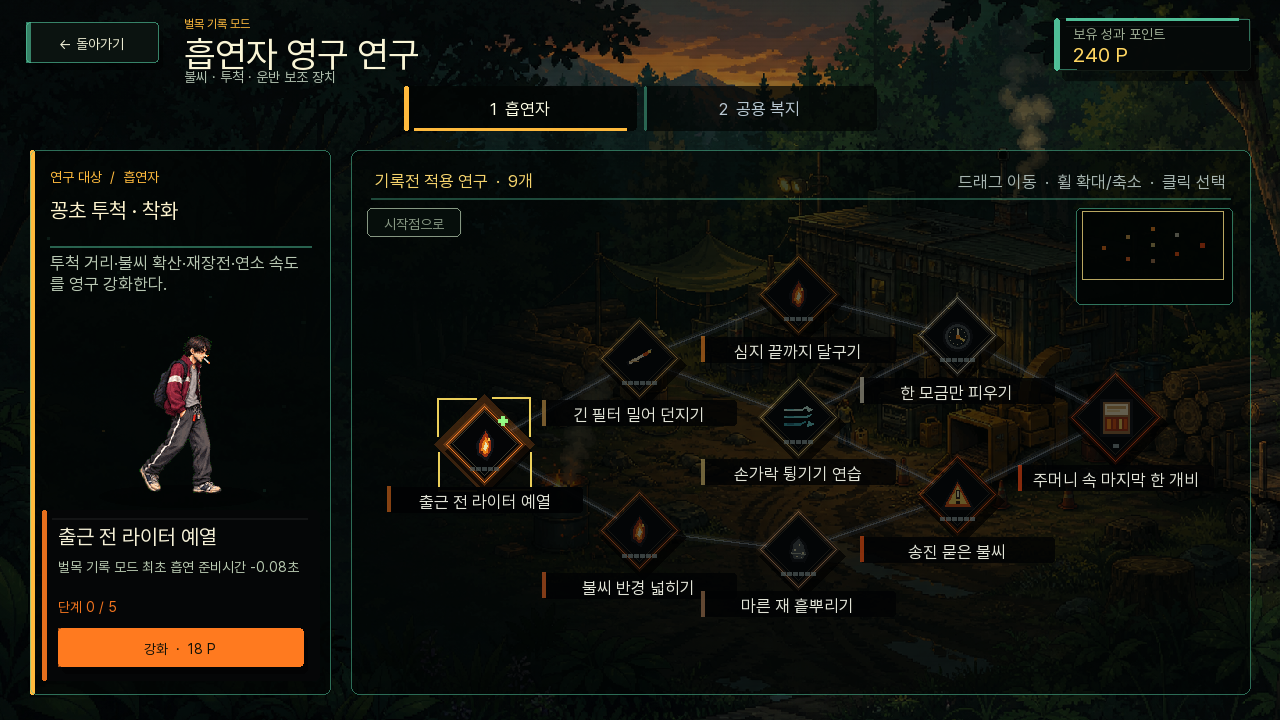
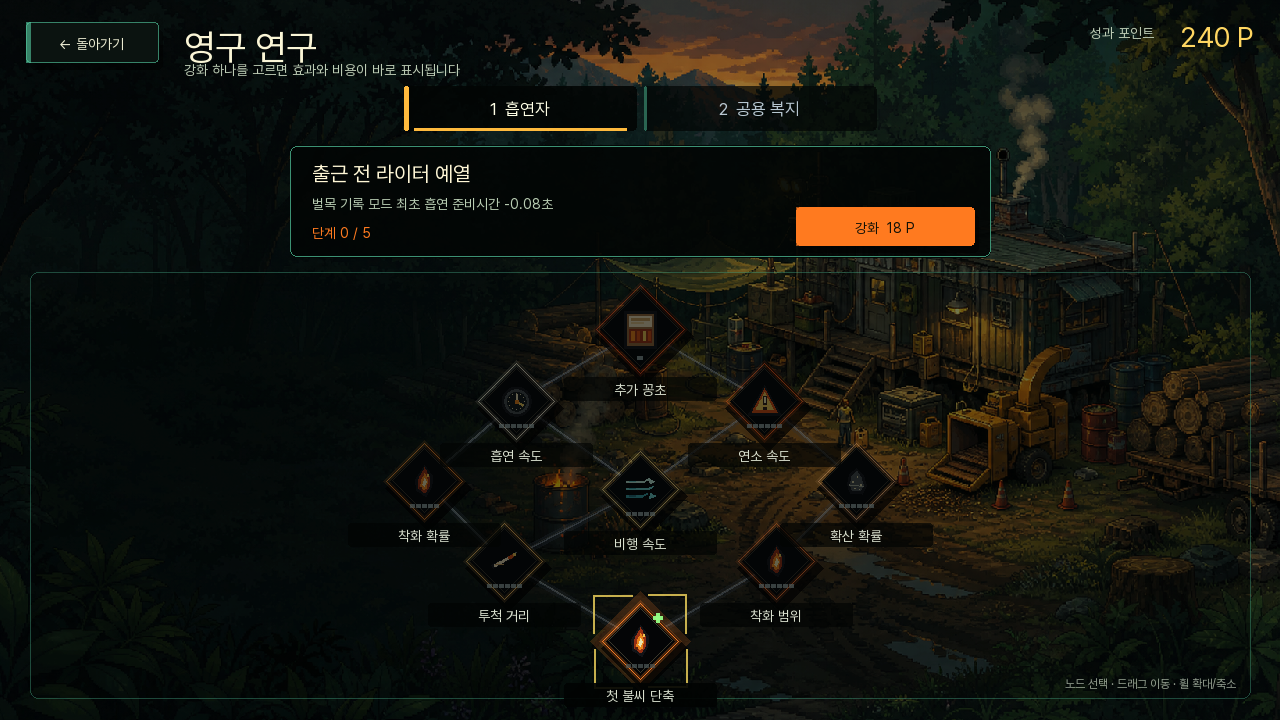
feat: simplify result and permanent research UI

diff --git a/docs/character_dossier.html b/docs/character_dossier.html
@@ -416,7 +416,8 @@
     <div class="score-rule"><span class="score-rule-label">자동 산림 공급</span><span class="score-rule-value">0그루 달성 · 0.86초 잎/프리즘 단계 상승 연출 · 6그루 순차 발아 · 다음 단계 영구 해금</span></div>
     <div class="score-rule"><span class="score-rule-label">몬스터 투입</span><span class="score-rule-value">첫 45초 없음 · 이후 동시 1→2→3→4마리</span></div>
     <div class="score-rule"><span class="score-rule-label">런 성장</span><span class="score-rule-value">목재 경험치 → 비전투 운영 카드 3택</span></div>
-    <div class="score-rule"><span class="score-rule-label">영구 연구 화면</span><span class="score-rule-value">트리 자동 맞춤 · 고밀도 픽셀 아이콘 · 완료/구매 가능/잠김 상태 분리</span></div>
+    <div class="score-rule"><span class="score-rule-label">영구 연구 화면</span><span class="score-rule-value">중앙 뿌리형 트리 · 선택 정보/비용 상단 집중 · 미니맵·중복 설명 제거 · 고밀도 픽셀 아이콘</span></div>
+    <div class="score-rule"><span class="score-rule-label">결과 화면</span><span class="score-rule-value">생존 기록 → 핵심 통계 3개 → 성과 포인트 → 영구 연구/재도전 순서</span></div>
   </section>
   <div class="toolbar">
     <div class="search-box">
@@ -1005,7 +1006,7 @@ function renderAll() {
   document.getElementById("masthead-stamp").textContent = MODE_META[mode].stamp;
   document.getElementById("footer").textContent = mode === "traits"
     ? "src/character_traits.lua 기준 · 노드 순서는 선행 조건 깊이(단계) 순"
-    : "src/clearcut_mode.lua + score_operations.lua + character_traits.lua 기준 · 현재 로비는 흡연자 벌목 기록 모드만 활성화 · 저장된 재생 단계에서 6그루로 시작하고 0그루 달성 시 0.86초 전투 정지·잎/프리즘 단계 상승 FX·6그루 순차 발아 후 다음 단계가 영구 해금 · 재생 속도 0.14×1.45^(단계-1), HP 1.08^(단계-1) · 영구 연구 화면은 트리를 해상도에 맞춰 자동 배치하고 전용 픽셀 아이콘·단계 핍·선택 브래킷으로 상태를 구분 · 목재 경험치 드래프트에는 아기 로봇·탐지 안테나·작업장 확장·조림 구획·목재 선별기·안전 관리 장치만 등장 · 로비 영구 성장은 스킬 레벨을 지급하지 않고 투척 거리·착화 반경·착화/확산 확률·흡연/비행/연소 속도·추가 꽁초 특성으로 분리 · 일반 작전·공용 전투 스킬·융합·시너지 코드는 삭제 없이 비활성 보존";
+    : "src/clearcut_mode.lua + score_operations.lua + character_traits.lua 기준 · 현재 로비는 흡연자 벌목 기록 모드만 활성화 · 저장된 재생 단계에서 6그루로 시작하고 0그루 달성 시 0.86초 전투 정지·잎/프리즘 단계 상승 FX·6그루 순차 발아 후 다음 단계가 영구 해금 · 재생 속도 0.14×1.45^(단계-1), HP 1.08^(단계-1) · 영구 연구는 전체 뿌리형 트리를 한 화면에 맞추고 선택한 노드의 이름·효과·단계·비용을 상단 한 곳에 표시하며 미니맵과 중복 캐릭터 설명을 두지 않음 · 결과 화면은 생존 기록·핵심 통계 3개·성과 포인트·영구 연구/재도전 순서로 표시 · 목재 경험치 드래프트에는 아기 로봇·탐지 안테나·작업장 확장·조림 구획·목재 선별기·안전 관리 장치만 등장 · 로비 영구 성장은 스킬 레벨을 지급하지 않고 투척 거리·착화 반경·착화/확산 확률·흡연/비행/연소 속도·추가 꽁초 특성으로 분리 · 일반 작전·공용 전투 스킬·융합·시너지 코드는 삭제 없이 비활성 보존";
   buildModeSwitch();
   buildTabs();
   renderPanel(document.getElementById("search").value);

diff --git a/scripts/render_score_result.py b/scripts/render_score_result.py
@@ -1,0 +1,11 @@
+"""Render the active score-mode result screen offscreen."""
+from pathlib import Path
+from headless_lua import run
+from render_clearcut_synergy_ui import render_ui
+
+ROOT=Path(__file__).resolve().parents[1]
+OUT=ROOT/'docs/previews'
+run(ROOT/'scripts/capture_score_result.lua')
+render_ui(OUT/'score-result-draws.json',(1280,720)).save(OUT/'score-result-v1.png')
+render_ui(OUT/'score-result-compact-draws.json',(960,540)).save(OUT/'score-result-compact-v1.png')
+print('SCORE_RESULT_RENDER_OK 1280x720+960x540 window=none')

diff --git a/docs/CLEARCUT_UI_REDESIGN.md b/docs/CLEARCUT_UI_REDESIGN.md
@@ -1,4 +1,4 @@
-# 벌목 작전 HUD·결과 UI v4 — 최소 요소
+# 벌목 작전 HUD·결과 UI v5 — 결과와 연구의 단일 시선 흐름
 
 HUD를 시계·나무판·표찰 같은 소품으로 디자인하지 않는다. 같은 테두리의 카드 반복도 쓰지 않는다. 플레이 화면과 수목을 가리지 않는 **텍스트, 픽셀 바, 짧은 구분선**만 사용한다.
 
@@ -14,13 +14,25 @@ HUD를 시계·나무판·표찰 같은 소품으로 디자인하지 않는다. 
 ## 결과 화면
 
 - 나무판, 종이, 도구 소품, 통계 카드 격자를 사용하지 않는다.
-- 어두운 월드 오버레이 위에 결과 제목, 등급, 핵심 수치 3개, 세부 기록 6개, 연구 포인트와 버튼만 둔다.
-- 정보 묶음은 얇은 2px 구분선으로만 나눈다.
+- 기존 월드 배경을 남긴 어두운 오버레이 위에 `종료 원인 → 생존 기록 → 핵심 수치 3개 → 성과 포인트` 순서로 둔다.
+- 세부 기록 6개와 의미가 겹치는 등급은 제거한다. 가장 큰 숫자는 생존 시간, 두 번째는 획득 성과 포인트다.
+- 다음 행동은 `영구 연구`와 `다시 도전` 두 개만 버튼으로 표시하고 로비 이동은 ESC 안내로 낮춘다.
 - 960×540, 1280×720, 1920×1080에서 버튼과 텍스트가 화면 안에 유지되어야 한다.
 - 진입 종료에는 `작전 개시`, `전투 시작`, `작업 시작` 문구를 띄우지 않는다.
+
+## 영구 연구
+
+- 좌측 캐릭터 설명판, 미니맵, 같은 설명을 반복하는 하단 정보판을 제거한다.
+- 선택한 노드의 이름·실제 효과·현재 단계·구매 비용은 트리 바로 위 한 영역에 표시한다.
+- 트리는 뿌리에서 위로 갈라지는 구조로 전체가 첫 화면에 보이며, 노드 라벨은 짧은 효과명만 쓴다.
+- 구매 완료 경로는 금빛, 구매 가능 경로는 청록빛, 잠긴 경로는 회색으로 구분한다. 구조선에 붉은색을 쓰지 않는다.
+- 배경은 승인된 벌목장 픽셀 원화를 유지하고 가독성용 투명 음영만 얹는다.
 
 ## 실제 캡처
 
 - `docs/previews/clearcut-hud-v4-minimal-1280.png`
 - `docs/previews/clearcut-results-v4-minimal-1280.png`
 - `docs/previews/clearcut-results-v4-minimal-960.png`
+- `docs/previews/score-result-v1.png`
+- `docs/previews/score-result-compact-v1.png`
+- `docs/previews/score-trait-board-v1.png`
